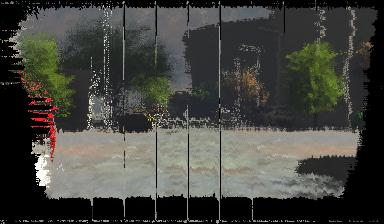
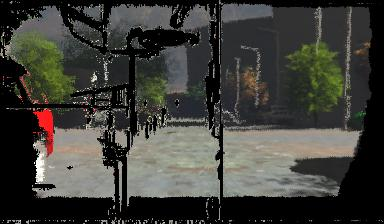
training without pc loss

diff --git a/losses_helper.py b/losses_helper.py
@@ -119,21 +119,24 @@ def depth_loss(gt_flow,predicted_flow,weight=300):
 
 
 
+# taken from DEMON Network
 def scale_invariant_gradient( inp, deltas, weights, epsilon=0.001):
-    """Computes the scale invariant gradient images
-    
-    inp: Tensor
-        
-    deltas: list of int
-      The pixel delta for the difference. 
-      This vector must be the same length as weight.
-    weights: list of float
-      The weight factor for each difference.
-      This vector must be the same length as delta.
-    epsilon: float
-      epsilon value for avoiding division by zero
-        
-    """
+  """Computes the scale invariant gradient images
+  
+  inp: Tensor
+      
+  deltas: list of int
+    The pixel delta for the difference. 
+    This vector must be the same length as weight.
+  weights: list of float
+    The weight factor for each difference.
+    This vector must be the same length as delta.
+  epsilon: float
+    epsilon value for avoiding division by zero
+      
+  """
+
+  with tf.variable_scope('scale_inv_images'):
     inp = tf.transpose(inp,[0,3,1,2])
 
 
@@ -142,19 +145,21 @@ def scale_invariant_gradient( inp, deltas, weights, epsilon=0.001):
     sig_images = []
     for delta, weight in zip(deltas,weights):
         sig_images.append(sops.scale_invariant_gradient(inp, deltas=[delta], weights=[weight], epsilon=epsilon))
-    return tf.concat(sig_images,axis=1)
+  return tf.concat(sig_images,axis=1)
 
 
+# taken from DEMON Network
 def scale_invariant_gradient_loss( inp, gt, epsilon ):
-    """Computes the scale invariant gradient loss
-    inp: Tensor
-        Tensor with the scale invariant gradient images computed on the prediction
-    gt: Tensor
-        Tensor with the scale invariant gradient images computed on the ground truth
-    epsilon: float
-      epsilon value for avoiding division by zero
-    """
+  """Computes the scale invariant gradient loss
+  inp: Tensor
+      Tensor with the scale invariant gradient images computed on the prediction
+  gt: Tensor
+      Tensor with the scale invariant gradient images computed on the ground truth
+  epsilon: float
+    epsilon value for avoiding division by zero
+  """
 
+  with tf.variable_scope('scale_invariant_gradient_loss'):
     num_channels_inp = inp.get_shape().as_list()[1]
     num_channels_gt = gt.get_shape().as_list()[1]
     assert num_channels_inp%2==0
@@ -166,6 +171,7 @@ def scale_invariant_gradient_loss( inp, gt, epsilon ):
 
     return tf.add_n(tmp)
 
+# taken from DEMON Network
 def pointwise_l2_loss(inp, gt, epsilon, data_format='NCHW'):
     """Computes the pointwise unsquared l2 loss.
     The input tensors must use the format NCHW. 

diff --git a/run_network.py b/run_network.py
@@ -270,7 +270,7 @@ class DatasetReader:
         # _ = losses_helper.mse_loss(labels,predict_flow2)
         _ = losses_helper.endpoint_loss(network_input_labels,predict_flow2)
         # _ = losses_helper.depth_loss(labels,predict_flow2)
-        _ = losses_helper.photoconsistency_loss(network_input_images,predict_flow2)
+        # _ = losses_helper.photoconsistency_loss(network_input_images,predict_flow2)
 
         scale_invariant_gradient_image_gt = losses_helper.scale_invariant_gradient(network_input_labels,
                                                                                 np.array([1,2,4,8,16]),

diff --git a/flow_test.py b/flow_test.py
@@ -131,7 +131,7 @@ class FlowPredictor:
 	def show_image(self,array,img_title):
 		a = Image.fromarray(array)
 		a.show(title=img_title)
-		a.save('prediction.jpg')
+		a.save('prediction_without_pc_loss.jpg')
 
 
 
